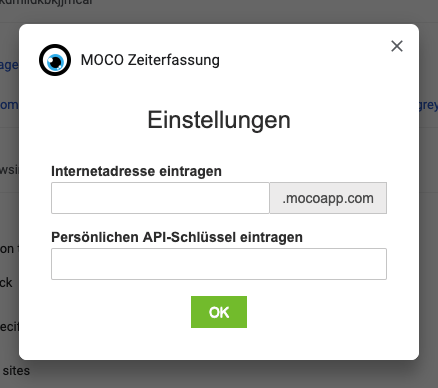
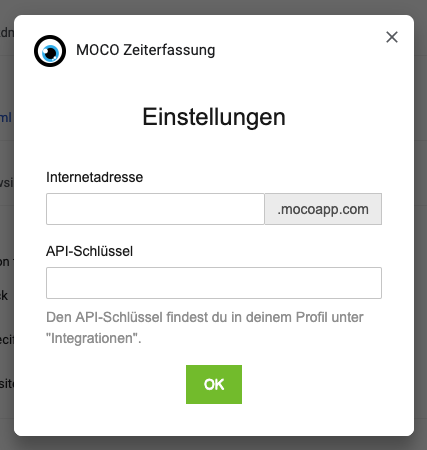
Update styles and texts of error pages

diff --git a/src/js/components/Popup.js b/src/js/components/Popup.js
@@ -7,6 +7,23 @@ import {
   ERROR_UPGRADE_REQUIRED,
   serializeProps
 } from "utils"
+import { isChrome } from "utils/browser"
+
+function getStyles(errorType) {
+  return {
+    width: "516px",
+    height:
+      errorType === ERROR_UNAUTHORIZED
+        ? "834px"
+        : errorType === ERROR_UPGRADE_REQUIRED
+        ? isChrome()
+          ? "369px"
+          : "461px"
+        : errorType === ERROR_UNKNOWN
+        ? "550px"
+        : "558px"
+  }
+}
 
 class Popup extends Component {
   static propTypes = {
@@ -14,18 +31,6 @@ class Popup extends Component {
     errorType: PropTypes.string,
     onRequestClose: PropTypes.func.isRequired
   };
-
-  getStyles = () => ({
-    width: "516px",
-    height:
-      this.props.errorType === ERROR_UNAUTHORIZED
-        ? "844px"
-        : this.props.errorType === ERROR_UPGRADE_REQUIRED
-        ? "355px"
-        : this.props.errorType === ERROR_UNKNOWN
-        ? "377px"
-        : "558px"
-  });
 
   handleRequestClose = event => {
     if (event.target.classList.contains("moco-bx-popup")) {
@@ -51,7 +56,7 @@ class Popup extends Component {
       "errorMessage"
     ])(this.props)
 
-    const styles = this.getStyles()
+    const styles = getStyles(this.props.errorType)
 
     return (
       <div className="moco-bx-popup" onClick={this.handleRequestClose}>

diff --git a/src/js/components/Errors/UpgradeRequiredError.js b/src/js/components/Errors/UpgradeRequiredError.js
@@ -1,14 +1,16 @@
 import React from "react"
 import { isChrome } from "utils/browser"
+import logo from "images/logo.png"
+import firefoxAddons from "images/firefox_addons.png"
 
 const UpgradeRequiredError = () => (
   <div className="moco-bx-error-container">
+    <img className="moco-bx-logo" src={logo} alt="MOCO logo" />
     <h1>Upgrade erforderlich</h1>
-    <p>Die installierte MOCO Browser-Erweiterung ist veraltet.</p>
     <p>
-      Bitte aktualisiere die MOCO Browser-Erweiterung auf den neuesten Stand.
+      Die installierte MOCO Browser-Erweiterung ist veraltet &mdash; bitte
+      aktualisieren.
     </p>
-
     {isChrome() ? (
       <button
         className="moco-bx-btn"
@@ -18,11 +20,13 @@ const UpgradeRequiredError = () => (
       </button>
     ) : (
       <>
-        <p>
-          Die Browser-Erweiterung kann unter der folgenden URL aktualisiert
-          werden:
-        </p>
-        <pre>about:addons</pre>
+        <br />
+        <p>Unter folgender URL:</p>
+        <img
+          className="firefox-addons"
+          src={firefoxAddons}
+          alt="about:addons"
+        />
       </>
     )}
   </div>

diff --git a/src/js/components/Options.js b/src/js/components/Options.js
@@ -66,7 +66,7 @@ class Options extends Component {
           <div className="text-success">Anmeldung erfolgreich</div>
         )}
         <div className="form-group">
-          <label>Internetadresse eintragen</label>
+          <label>Internetadresse</label>
           <div className="input-group">
             <input
               type="text"
@@ -79,7 +79,7 @@ class Options extends Component {
           </div>
         </div>
         <div className="form-group">
-          <label>Persönlichen API-Schlüssel eintragen</label>
+          <label>API-Schlüssel</label>
           <input
             type="text"
             name="apiKey"
@@ -87,6 +87,10 @@ class Options extends Component {
             onKeyDown={this.handleInputKeyDown}
             onChange={this.onChange}
           />
+          <p className="text-muted">
+            Den API-Schlüssel findest du in deinem Profil unter
+            &quot;Integrationen&quot;.
+          </p>
         </div>
         <button className="moco-bx-btn" onClick={this.handleSubmit}>
           OK

diff --git a/src/js/components/Errors/InvalidConfigurationError.js b/src/js/components/Errors/InvalidConfigurationError.js
@@ -4,12 +4,10 @@ import settingsUrl from "images/settings.png"
 const InvalidConfigurationError = () => (
   <div className="moco-bx-error-container">
     <h1>Bitte Einstellungen aktualisieren</h1>
-    <p>
-      Bitte trage deine Internetadresse und deinen API-Schlüssel in den
-      Einstellungen der MOCO Browser-Erweiterung ein. Deinen API-Schlüssel
-      findest du in der MOCO App in deinem Profil im Register
-      &quot;Integrationen&quot;.
-    </p>
+    <ol>
+      <li>Internetadresse eintragen</li>
+      <li>Persönlichen API-Schlüssel eintragen</li>
+    </ol>
     <button
       className="moco-bx-btn"
       onClick={() => chrome.runtime.sendMessage({ type: "openOptions" })}
@@ -21,6 +19,8 @@ const InvalidConfigurationError = () => (
     <img
       src={chrome.extension.getURL(settingsUrl)}
       alt="Browser extension configuration settings"
+      style={{ cursor: "pointer" }}
+      onClick={() => chrome.runtime.sendMessage({ type: "openOptions" })}
     />
   </div>
 )

diff --git a/src/css/popup.scss b/src/css/popup.scss
@@ -9,6 +9,7 @@ html {
     font-size: 14px;
     margin: 0px;
     font-family: $font-family;
+    color: $font-color;
 
     #moco-bx-root {
       min-width: 516px;
@@ -95,21 +96,27 @@ html {
         line-height: 1.5;
         width: 420px;
         padding: 3rem;
-        color: #777;
         text-align: center;
 
         h1 {
+          font-size: 35px;
+          font-weight: normal;
           margin-top: 0;
           line-height: 1.3;
         }
 
         img {
-          width: 100%;
+          width: auto;
+          max-width: 100%;
 
           &.moco-bx-logo {
-            width: 80px;
+            width: 48px;
             margin-bottom: 2rem;
           }
+        }
+
+        ol {
+          text-align: left;
         }
 
         button {

diff --git a/src/js/components/Errors/UnknownError.js b/src/js/components/Errors/UnknownError.js
@@ -6,6 +6,10 @@ const UnknownError = ({ message = "Unbekannter Fehler" }) => (
   <div className="moco-bx-error-container">
     <img className="moco-bx-logo" src={logo} alt="MOCO logo" />
     <h1>Ups, es ist ein Fehler passiert!</h1>
+    <p>Bitte überprüfe deine Internetverbindung.</p>
+    <p>Wir wurden per Email benachrichtigt und untersuchen den Vorfall.</p>
+    <br />
+    <p>Fehlermeldung:</p>
     <pre>{message}</pre>
   </div>
 )

diff --git a/src/css/options.scss b/src/css/options.scss
@@ -4,14 +4,25 @@
 
 #moco-bx-root {
   font-family: $font-family;
+  color: $font-color;
   font-size: 14px;
+  line-height: 1.5;
 
   .moco-bx-options {
     padding: 0rem 2rem 2rem;
 
+    p {
+      margin: 0.5rem 0;
+    }
+
     h2 {
       font-size: 1.5rem;
       margin: 1rem 0 2rem;
+    }
+
+    label {
+      font-weight: normal;
+      margin-bottom: 5px;
     }
 
     input {

diff --git a/src/css/content.scss b/src/css/content.scss
@@ -3,6 +3,7 @@
 
 #moco-bx-root {
   font-family: $font-family;
+  color: $font-color;
 
   .moco-bx-bubble {
     box-sizing: content-box;
@@ -46,6 +47,7 @@
 
 #moco-bx-popup-root {
   font-family: $font-family;
+  color: $font-color;
 
   iframe {
     border: 0;

diff --git a/src/css/_variables.scss b/src/css/_variables.scss
@@ -1,4 +1,5 @@
 $font-family: Arial, sans-serif;
+$font-color: #191919;
 $popup-width: 420px;
 $popup-height: 463px;
 
